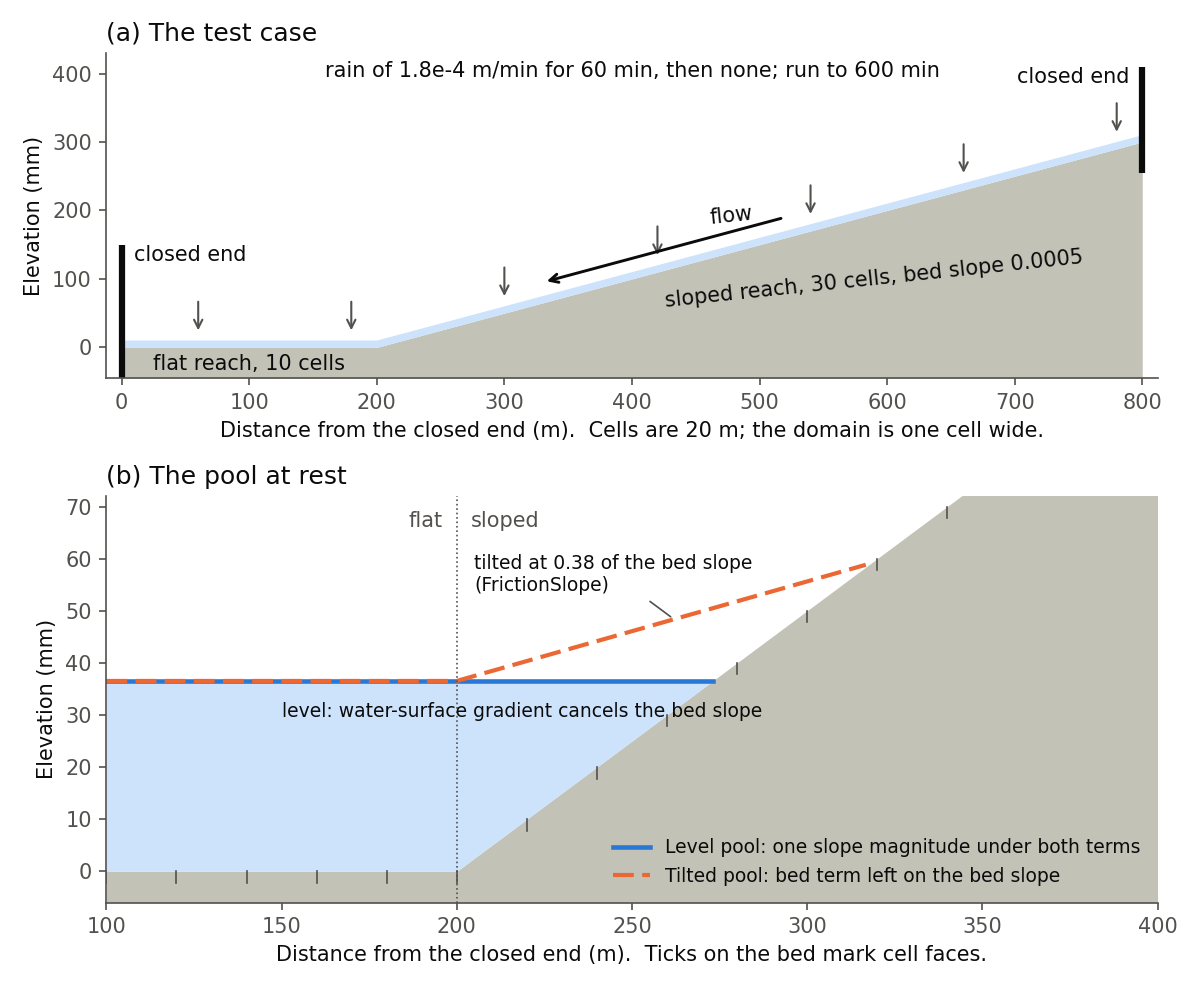
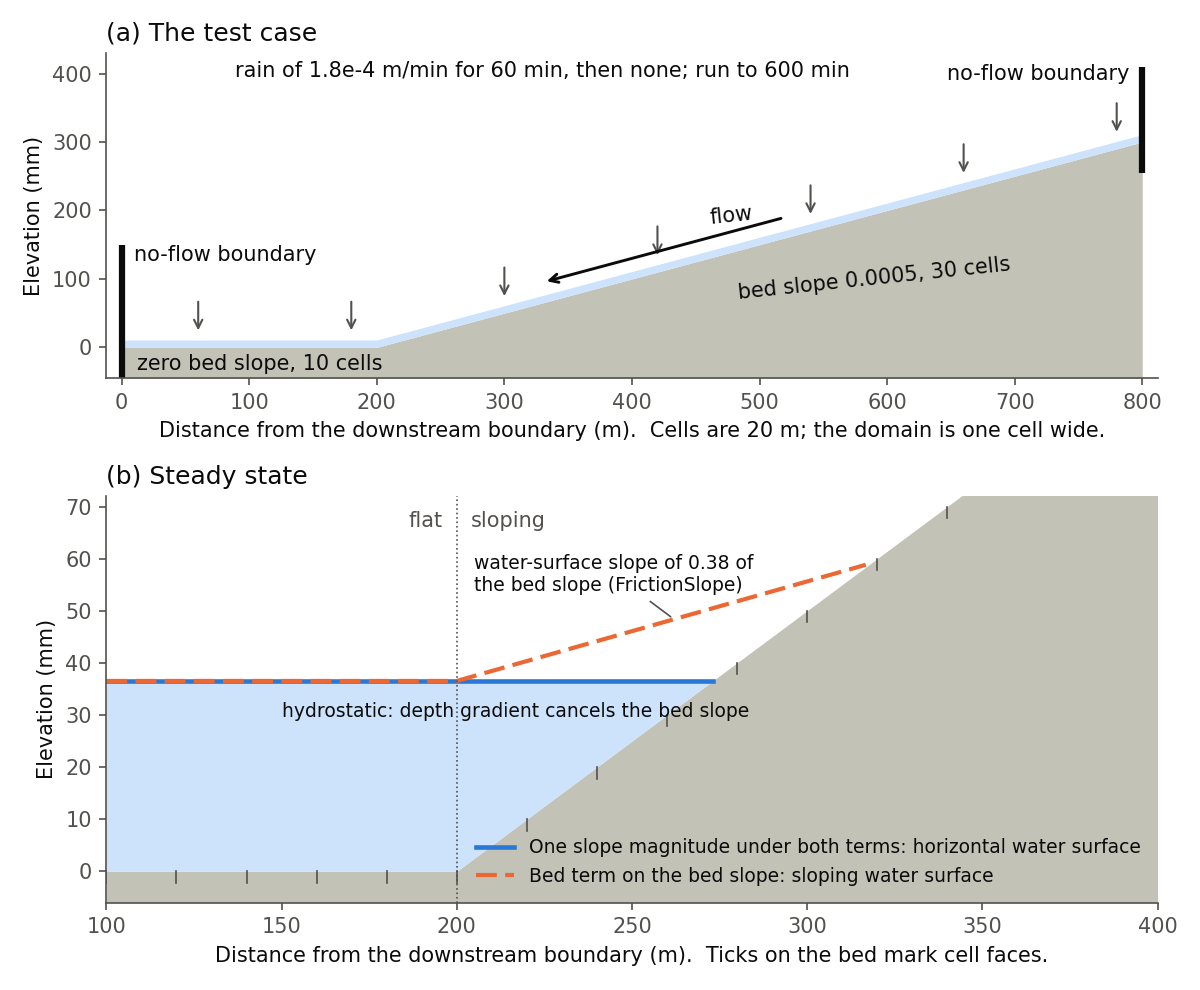
Describe the overland diffusive wave options in hydraulic terms
The manual section, the key help, the figure, and the backwater test
spoke of pools, of water backing up, and of level and tilted surfaces.
Say it in the usual terms: the kinematic wave approximation neglects the
depth-gradient term and cannot represent backwater; under hydrostatic
conditions the water surface is horizontal and the flux must vanish; a
scheme that preserves that state is well balanced.  No equation, key,
default, or test result changes.

diff --git a/test/python/overland_backwater.py b/test/python/overland_backwater.py
@@ -1,16 +1,18 @@
 # -----------------------------------------------------------------------------
-# Backwater test for the OverlandKinematic water-surface (diffusion) term
+# Backwater test for the OverlandKinematic diffusive wave options
 #
-# A sloped plane drains into a flat reach with a closed end.  The domain is one
-# cell wide and 40 cells of 20 m long.  Cells 0-9 are flat and cells 10-39 slope
-# toward the flat reach at 5e-4.  Rain falls for 60 min and then stops.  The
-# water fills the flat reach and backs up the slope.  At rest the pool is level:
-# over the sloped cells the water-surface gradient cancels the bed slope.
+# A sloped plane drains to a reach of zero bed slope with a no-flow boundary.
+# The domain is one cell wide and 40 cells of 20 m long.  Cells 0-9 have zero
+# bed slope and cells 10-39 slope toward them at 5e-4.  Rain falls for 60 min
+# and then stops.  The water ponds in the flat reach and the backwater extends
+# up the slope.  The steady state is hydrostatic: the water surface is
+# horizontal, so over the sloped cells the depth gradient cancels the bed slope.
 #
-# The kinematic wave cannot form this pool.  A scheme with different slope
-# magnitudes under the two terms of the flux does not rest level.  The test
-# runs the schemes that share one magnitude and checks, besides the reference
-# files, that the pool is level and that no water is lost.
+# The kinematic wave cannot represent this backwater.  A scheme with different
+# slope magnitudes under the two terms of the flux is not well balanced, and
+# its steady state has a sloping water surface.  The test runs the schemes that
+# share one magnitude and checks, besides the reference files, that the steady
+# water surface is horizontal and that water is conserved.
 # -----------------------------------------------------------------------------
 
 import sys, argparse
@@ -289,13 +291,16 @@ configurations = [
 
 # Rain depth times the number of cells, in m of water per unit width and dy
 rain_volume = rain * rain_steps * dt * ny
-# Largest allowed range of water-surface elevation over the pool at rest (m).
+# Largest allowed range of water-surface elevation over the ponded reach at
+# the end of the run (m).
 # The bed rises 0.01 m per cell on the slope, and a scheme that is not well
-# balanced tilts the pool by a third of that or more per cell.  The Pythagorean
-# pool is still settling at the end of the run and is within 0.6 mm.
+# balanced leaves a water-surface slope of a third of that or more per cell.
+# The Pythagorean runs are still approaching steady state at the end and are
+# within 0.6 mm.
 level_tolerance = 2.0e-3
-# A cell belongs to the pool if its bed is this far below the water surface (m)
-pool_margin = 2.0e-3
+# A cell is in the ponded reach if its bed is this far below the water surface
+# at the no-flow boundary (m)
+ponded_margin = 2.0e-3
 # Largest allowed relative loss of water
 mass_tolerance = 1.0e-3
 
@@ -333,7 +338,7 @@ for run_name, slope_magnitude, bed_term, surface_term in configurations:
             ):
                 passed = False
 
-        # The pool at rest: ponded depth and water-surface elevation
+        # The end of the run: ponded depth and water-surface elevation
         timestep = str(n_dumps - 1).rjust(5, "0")
         depth = np.maximum(
             read_pfb(new_output_dir_name + f"/{run_name}.out.press.{timestep}.pfb")[
@@ -341,21 +346,24 @@ for run_name, slope_magnitude, bed_term, surface_term in configurations:
             ],
             0.0,
         )
-        # The pool is the set of cells whose bed lies below the water surface
-        # at the closed end.  Cells above it hold only a thin draining film.
-        pool = bed < depth[0] - pool_margin
-        surface = (bed + depth)[pool]
+        # The ponded reach is the set of cells whose bed lies below the water
+        # surface at the no-flow boundary.  Cells above it hold only a thin
+        # draining film.
+        ponded = bed < depth[0] - ponded_margin
+        surface = (bed + depth)[ponded]
         level_range = surface.max() - surface.min()
         print(
-            f"Pool at rest covers {pool.sum()} cells, "
-            f"{(pool[n_flat:]).sum()} of them on the slope; "
+            f"Ponded reach covers {ponded.sum()} cells, "
+            f"{(ponded[n_flat:]).sum()} of them on the slope; "
             f"water-surface range {level_range:.3e} m"
         )
-        if pool[n_flat:].sum() < 2:
-            print("FAILED : the pool does not back up the slope")
+        if ponded[n_flat:].sum() < 2:
+            print("FAILED : the backwater does not extend up the slope")
             passed = False
         if level_range > level_tolerance:
-            print(f"FAILED : the pool at rest is not level ({level_range:.3e} m)")
+            print(
+                f"FAILED : the steady water surface is not horizontal ({level_range:.3e} m)"
+            )
             passed = False
 
         mass_error = abs(depth.sum() - rain_volume) / rain_volume

diff --git a/pfsimulator/parflow_lib/overlandflow_eval_Kin.c b/pfsimulator/parflow_lib/overlandflow_eval_Kin.c
@@ -327,8 +327,9 @@ void    OverlandFlowEvalKin(
    * the bed slope the flux is the kinematic flux plus a diffusive term.
    * Putting the slope magnitude under the bed term as well adds
    * S_0 h^{5/3}/n (1/|S_0|^{1/2} - 1/|S_denom|^{1/2}) to the flux, which is
-   * what makes a pool at rest on a slope level.  A lagged magnitude comes
-   * from the old-time pressure, so it is fixed within a time step.  With
+   * what makes the flux vanish under hydrostatic conditions.  A lagged
+   * magnitude comes from the old-time pressure, so it is fixed within a
+   * time step.  With
    * FrictionSlope and both terms lagged this is the diffusive wave with a
    * lagged friction-slope magnitude: the BedSlope flux times
    * (|S_0| / |S_f,old|)^{1/2}. */

diff --git a/docs/user_manual/models.rst b/docs/user_manual/models.rst
@@ -336,11 +336,12 @@ the gradient of the ponded depth,
    \mathbf{S}_f = \mathbf{S}_0 + \nabla\psi_s .
    \end{aligned}
 
-The kinematic wave drops the gradient and sets
-:math:`\mathbf{S}_f = \mathbf{S}_0`. Water then moves only down the bed
-slope: it cannot cross flat ground, and it cannot fill a pool behind an
-obstruction. The diffusive wave keeps the gradient, in the direction of
-the flow and in its magnitude.
+The kinematic wave approximation neglects the depth-gradient term of
+the momentum equation and sets :math:`\mathbf{S}_f = \mathbf{S}_0`
+(Equation :eq:`ovmom`). It therefore cannot represent backwater, and it
+gives no flow where the bed slope is zero. The diffusive wave
+approximation retains the depth gradient, both in the direction of the
+flux and in the magnitude of the friction slope.
 
 The **OverlandKinematic** boundary condition can keep the gradient in
 several ways, selected with the keys under
@@ -381,17 +382,17 @@ the upwind cell, where upwind is decided by the sign of
        :math:`A = |\mathbf{S}_0|`.
    * - ``BedSlope``
      - :math:`|\mathbf{S}_0|`
-     - Known in advance, so the flux is linear in the gradient. Zero on
-       flat ground, where the floor ``Solver.OverlandKinematic.Epsilon``
-       is used.
+     - Independent of the solution, so the flux is linear in the depth
+       gradient. Zero where the bed slope is zero; the floor
+       ``Solver.OverlandKinematic.Epsilon`` is used there.
    * - ``FrictionSlope``
      - :math:`|\mathbf{S}_0 + \alpha\,\nabla\psi_s|`
-     - The slope of the water surface, as in the diffusive wave. It goes
-       to zero as the water surface becomes level.
+     - The magnitude of the friction slope, as in the diffusive wave. It
+       goes to zero as the water surface becomes horizontal.
    * - ``Pythagorean``
      - :math:`\left(|\mathbf{S}_0|^2 + |\alpha\,\nabla\psi_s|^2\right)^{1/2}`
-     - Never falls below the bed slope, so it stays bounded where a pool
-       comes to rest on a slope.
+     - Never falls below the bed slope, so it stays bounded as ponded
+       water on a sloping bed approaches hydrostatic conditions.
 
 For ``FrictionSlope`` and ``Pythagorean`` two more keys say where
 :math:`M` is applied and from which time step it is computed.
@@ -441,13 +442,13 @@ sets the time level of :math:`B = M` in the same way, ``Lagged`` or
      - ``BedSlope``
      - ``Implicit`` or ``Lagged``
      - Kinematic flux plus a diffusive term:
-       :math:`A = |\mathbf{S}_0|`, :math:`B = M`. Not level at rest on a
-       slope; see below.
+       :math:`A = |\mathbf{S}_0|`, :math:`B = M`. Not well balanced; see
+       below.
    * - ``FrictionSlope`` or ``Pythagorean``
      - ``Lagged``
      - ``Implicit``
      - :math:`A = M^{n}`, :math:`B = M^{n+1}`. With ``FrictionSlope``
-       this fails where pools form.
+       the nonlinear solve fails in backwater.
    * - ``FrictionSlope`` or ``Pythagorean``
      - ``Implicit``
      - ``Lagged``
@@ -456,37 +457,38 @@ sets the time level of :math:`B = M` in the same way, ``Lagged`` or
 Here :math:`n` is the previous time level and :math:`n+1` the one being
 solved for.
 
-**Flat ground.** With ``BedSlope`` the flux divides by the bed slope. On
-flat ground that is the epsilon floor, so water spreads at a rate set by
-``Solver.OverlandKinematic.Epsilon`` and not by the water surface.
-``FrictionSlope`` and ``Pythagorean`` reduce to
+**Zero bed slope.** With ``BedSlope`` the flux divides by the bed-slope
+magnitude. Where the bed slope is zero that is the epsilon floor, so the
+diffusivity is set by ``Solver.OverlandKinematic.Epsilon`` and not by the
+depth gradient. ``FrictionSlope`` and ``Pythagorean`` reduce to
 :math:`-\psi_s^{5/3}\,\nabla\psi_s / (n\,|\nabla\psi_s|^{1/2})` there,
-which is the diffusive wave.
+which is the diffusive wave flux.
 
-**A pool at rest on a slope.** Where water backs up against a slope
-(:numref:`overland_backwater_test`), the surface of the pool at rest is
-level, so
-:math:`\nabla\psi_s = -\mathbf{S}_0` and the true flux is zero. In
-Equation :eq:`diffcorr_eq` the two terms cancel at that gradient only if
-:math:`A = B`. Every scheme with one magnitude under both terms
-therefore holds a level pool. With ``BedTermMagnitude`` set to
-``BedSlope`` the two magnitudes differ, the terms cancel at a tilted
-surface, and a pool that extends over more than one or two cells does
-not come to rest level. The pool extends over more than one cell when
-its depth exceeds the bed slope times the cell size.
+**Hydrostatic conditions and backwater.** Under hydrostatic conditions
+the water surface is horizontal, so
+:math:`\nabla\psi_s = -\mathbf{S}_0`, the friction slope is zero, and
+the flux must vanish. In Equation :eq:`diffcorr_eq` the two terms cancel
+at that gradient only if :math:`A = B`. Every scheme with one magnitude
+under both terms therefore preserves the hydrostatic state; it is well
+balanced. With ``BedTermMagnitude`` set to ``BedSlope`` the two
+magnitudes differ, the flux vanishes at some other gradient, and the
+steady state has a sloping water surface
+(:numref:`overland_backwater_test`). The error appears where backwater
+extends over more than one or two cells, that is, where the ponded depth
+exceeds the bed slope times the cell size.
 
 .. figure:: overland_backwater_test.png
    :name: overland_backwater_test
    :width: 85%
 
    A backwater test case, used in the ``overland_backwater`` test. (a) A
-   plane with a bed slope of 0.0005 drains into a flat reach with a
-   closed end. Rain falls for 60 min and the water collects in a pool
-   that backs up the slope. (b) The pool at rest. With one slope
-   magnitude under both terms of Equation :eq:`diffcorr_eq` the surface
-   is level. With ``FrictionSlope`` and ``BedTermMagnitude`` set to
-   ``BedSlope`` the two terms cancel at a surface tilted at 0.38 of the
-   bed slope.
+   plane with a bed slope of 0.0005 drains to a reach of zero bed slope
+   with a no-flow boundary. Rain falls for 60 min, the water ponds in
+   the flat reach, and the backwater extends up the slope. (b) The
+   steady state. With one slope magnitude under both terms of Equation
+   :eq:`diffcorr_eq` the water surface is horizontal. With
+   ``FrictionSlope`` and ``BedTermMagnitude`` set to ``BedSlope`` the
+   flux vanishes at a water-surface slope of 0.38 of the bed slope.
 
 **Lagged or implicit.** With both terms ``Lagged`` the magnitude is fixed
 within a time step. The flux is then the ``BedSlope`` flux multiplied by
@@ -494,7 +496,7 @@ within a time step. The flux is then the ``BedSlope`` flux multiplied by
 what ``BedSlope`` costs, and the lag adds a time error that grows with
 the time step. With both terms ``Implicit`` there is no lag, and the
 magnitude changes during the solve, which takes more nonlinear
-iterations where pools form.
+iterations in backwater.
 
 **Relation to OverlandDiffusive.** ``SlopeMagnitude`` ``FrictionSlope``
 with both terms ``Lagged`` solves the same equation as the
@@ -505,37 +507,37 @@ average of the centered differences in the two cells that share it.
 
 **Boundaries.** The water-surface term is applied on faces between two
 surface cells. On faces at the edge of the domain, and at the edge of an
-overland patch, the flux is the kinematic one, so a flat edge is closed
-to flow.
+overland patch, the flux is the kinematic one, so an edge with zero bed
+slope is a no-flow boundary.
 
 **Parallel runs.** ``FrictionSlope`` and ``Pythagorean`` read corner
 ghost cells through the gradient along a face. ParFlow exchanges them
 when one of these is selected.
 
 **Choosing an option.** These suggestions rest on a small set of
-tests: the backwater case above, a mound spreading on flat and tilted
-planes, and one mountain watershed at hourly time steps. They are a
+tests: the backwater case above, a mound of water spreading on
+horizontal and sloping planes, and one mountain watershed at hourly time steps. They are a
 starting point and not a full evaluation.
 
-- On steep terrain where water neither ponds on flat ground nor backs
-  up, the kinematic wave (``Kinematic``, the default) is appropriate and
-  is the least expensive.
-- Where water crosses flat ground or pools behind an obstruction, start
-  with ``SlopeMagnitude`` set to ``FrictionSlope`` and the other two keys
-  at their defaults. This is the diffusive wave with a lagged magnitude.
-  It holds a level pool and is well defined on flat ground. In these
-  tests it took 9 to 24 percent more nonlinear iterations than the
-  kinematic wave on the two small cases, and less than 1 percent more on
-  the watershed.
+- On steep terrain without backwater or zero bed slope, the kinematic
+  wave (``Kinematic``, the default) is appropriate and is the least
+  expensive.
+- Where the bed slope is zero or small, or backwater occurs, start with
+  ``SlopeMagnitude`` set to ``FrictionSlope`` and the other two keys at
+  their defaults. This is the diffusive wave with a lagged magnitude. It
+  is well balanced and is well defined at zero bed slope. In these tests
+  it took 9 to 24 percent more nonlinear iterations than the kinematic
+  wave on the two small cases, and less than 1 percent more on the
+  watershed.
 - To check whether the lag matters for a problem, for example at large
   time steps, repeat a run with both ``BedTermMagnitude`` and
   ``SurfaceTermMagnitude`` set to ``Implicit`` and compare.
-- Avoid ``BedSlope`` as the slope magnitude where the ground is flat,
-  and avoid ``BedTermMagnitude`` ``BedSlope`` where pools extend over
-  more than one or two cells.
+- Avoid ``BedSlope`` as the slope magnitude where the bed slope is
+  zero, and avoid ``BedTermMagnitude`` ``BedSlope`` where backwater
+  extends over more than one or two cells.
 
-Basins with pools many cells long, run at large time steps, have not
-been tested.
+Low-gradient basins with extensive backwater, run at large time steps,
+have not been tested.
 
 The Jacobian linearization of the water-surface term, written as
 :math:`-D\,\nabla\psi_s` with

diff --git a/docs/user_manual/keys.rst b/docs/user_manual/keys.rst
@@ -4545,8 +4545,9 @@ run.
 This key sets :math:`A`, the magnitude that divides the bed-slope term,
 when **SlopeMagnitude** is ``FrictionSlope`` or ``Pythagorean``.
 ``BedSlope`` leaves :math:`|S_0|` there, as in the kinematic wave. The
-two terms then carry different magnitudes, and a pool at rest on a
-sloping bed is not held level once it covers more than one or two cells.
+two terms then carry different magnitudes and the scheme is not well
+balanced: where backwater extends over more than one or two cells, the
+steady state has a sloping water surface.
 ``Lagged`` (default) uses the selected slope magnitude computed from the
 pressure at the previous time step. ``Implicit`` uses it computed from
 the current pressure, and requires **SurfaceTermMagnitude** ``Implicit``.
